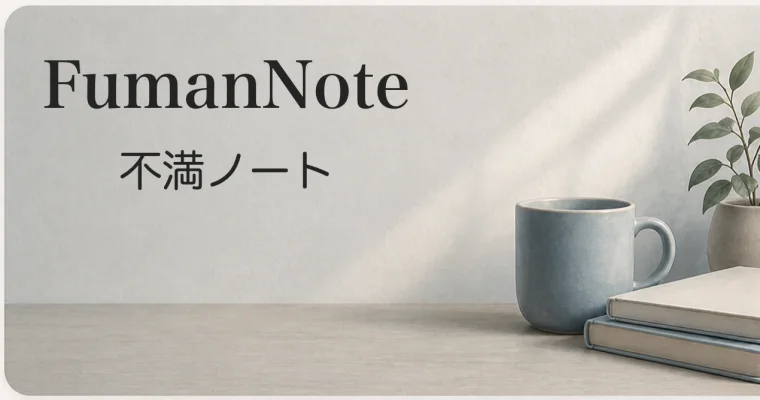
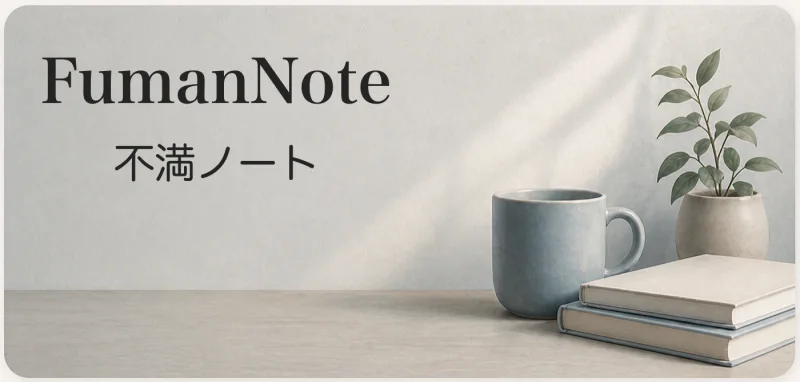
作品カードを横送りにして、収録を7枚に増やす
4枚を並べるだけだったところを、時間で左へ送るカルーセルにした。
両端に送りボタンを置き、指のスワイプとトラックパッドの横なで、
矢印キーでも動く。端まで行ったら反対の端へ回る。

スクロールそのものは overflow-x に任せてある。自前で位置を計算すると
端末ごとの慣性やスワイプの挙動を再現することになるが、素のスクロールなら
それが最初から付いてくる。ボタンと自動送りは scrollTo を呼ぶだけ。

端から端へ戻すときだけ smooth をやめて一気に飛ばしている。
scroll-snap-type が mandatory なので、その距離を smooth で流すと
途中でいちばん近いカードへ引き戻され、元の位置に留まってしまう。

自動送りは、指しているあいだ・中を辿っているあいだ・タブが隠れている
あいだは止める。手で動かしたあとは8秒黙る。読んでいる最中に勝手に
流れると鬱陶しいため。動きを抑える設定の人には最初から動かさない。

カードの絵は、比率が枠と違っても切り取らず、長い辺を枠に合わせて
短い辺に帯を入れる（contain）。帯の色は絵ごとに --art-bg で指定する。
不満ノートの絵は切らずに済むようになったので、元の 1400×667 に戻した。

追加したのは 戦闘画面UIカスタマイザー・Plain Video Saver・
オートダビング構文 の3枚。UADB / UADB Lite / RPGゲーム(仮) は
カードの絵がまだ無いので入れていない。

diff --git a/index.html b/index.html
@@ -44,6 +44,9 @@
   --pad:64px;
   --maxw:1408px;
   --header-h:72px;
+
+  --card-gap:22px;
+  --per-view:4;   /* 横送りで一度に見えるカードの枚数 */
 }
 
 *{box-sizing:border-box;margin:0;padding:0;}
@@ -166,33 +169,67 @@ section{padding:56px 0;}
 .sec-more:hover{color:var(--blue-ink);}
 .sec-more svg{width:14px;height:14px;}
 
-/* ── 作品カード ─────────────────────────── */
+/* ── 作品カード（横送り）───────────────────
+   素の overflow-x スクロールで作る。こうしておくと、指のスワイプも
+   トラックパッドの横なでも、こちらで何もしなくてもそのまま効く。
+   ボタンと自動送りは scrollTo を呼ぶだけ。 */
+.works-wrap{position:relative;}
 .works{
-  display:grid;
-  grid-template-columns:repeat(4,minmax(0,1fr));
-  gap:22px;
+  display:flex;
+  gap:var(--card-gap);
+  overflow-x:auto;
+  scroll-snap-type:x mandatory;
+  scroll-behavior:smooth;
+  /* overflow-x を指定すると縦もはみ出しが切られるので、
+     カードの影のぶんだけ上下に余白を取って相殺する */
+  padding:6px 0 10px;
+  margin:-6px 0 -10px;
+  scrollbar-width:none;
+  -ms-overflow-style:none;
 }
+.works::-webkit-scrollbar{display:none;}
 .work{
+  flex:0 0 calc((100% - var(--card-gap) * (var(--per-view) - 1)) / var(--per-view));
+  scroll-snap-align:start;
   border:1px solid var(--line);
   border-radius:10px;
   overflow:hidden;
   background:var(--bg);
   transition:border-color .15s,box-shadow .15s,transform .15s;
 }
+
+/* 送りボタン。カードの列の両端に重ねる */
+.car-btn{
+  position:absolute;top:calc(50% - 12px);
+  width:38px;height:38px;border-radius:50%;
+  display:flex;align-items:center;justify-content:center;
+  background:var(--bg);color:var(--ink);
+  border:1px solid var(--line);
+  box-shadow:0 3px 14px rgba(17,18,20,.10);
+  cursor:pointer;padding:0;
+  transition:background-color .15s,border-color .15s,box-shadow .15s;
+  z-index:2;
+}
+.car-btn:hover{background:var(--ink);color:#fff;border-color:var(--ink);}
+.car-btn:focus-visible{outline:2px solid var(--blue);outline-offset:2px;}
+.car-btn svg{width:16px;height:16px;}
+.car-btn.prev{left:-19px;}
+.car-btn.next{right:-19px;}
 .work:hover{
   border-color:#cfd2d8;
   box-shadow:0 6px 22px rgba(17,18,20,.07);
   transform:translateY(-2px);
 }
-/* OGP画像をそのまま流用するので、比率は 16:9 ではなく
-   OGP の 1200×630 に合わせる。切り取ると焼き込みの文字が欠ける。
-   カード専用に描いた絵は、この比率に切ってから置くこと。 */
+/* 枠は OGP の 1200×630 に固定する。絵の比率が違っても切り取らず、
+   長い辺を枠に合わせて短い辺に帯を入れる（contain）。焼き込みの
+   文字が端にある絵が多く、切ると欠けるため。
+   帯の色は絵ごとに --art-bg で指定する。既定は薄いグレー。 */
 .work-art{
   aspect-ratio:1200/630;
-  background:var(--bg-soft);
+  background:var(--art-bg,var(--bg-soft));
   border-bottom:1px solid var(--line);
 }
-.work-art img{width:100%;height:100%;object-fit:cover;}
+.work-art img{width:100%;height:100%;object-fit:contain;}
 .work-foot{
   display:flex;align-items:center;justify-content:space-between;
   gap:12px;padding:14px 16px;
@@ -282,10 +319,14 @@ footer{border-top:1px solid var(--line);padding:30px 0;}
 
 /* ── レスポンシブ ───────────────────────── */
 @media (max-width:1080px){
-  .works{grid-template-columns:repeat(2,minmax(0,1fr));}
+  :root{--per-view:2;}
 }
 @media (max-width:860px){
   :root{--pad:22px;}
+  /* 幅が狭いところではボタンが画面の外へ出るので、内側へ寄せる */
+  .car-btn{width:34px;height:34px;}
+  .car-btn.prev{left:-6px;}
+  .car-btn.next{right:-6px;}
   .header-inner{padding-left:var(--pad);}
   .nav{
     position:fixed;top:var(--header-h);left:0;right:0;
@@ -324,7 +365,17 @@ footer{border-top:1px solid var(--line);padding:30px 0;}
   .sec-head{margin-bottom:20px;}
 }
 @media (max-width:560px){
-  .works{grid-template-columns:1fr;}
+  :root{--per-view:1;}
+  /* 「FEATURED WORKS」が2行に折れて縦に伸びるので、
+     入らなければ「すべての作品を見る」を下の行へ落とす */
+  .sec-head{flex-wrap:wrap;gap:4px 16px;}
+  .sec-title{white-space:nowrap;}
+}
+
+/* 動きを抑える設定の人には自動送りを止める。JS 側でも見ている */
+@media (prefers-reduced-motion:reduce){
+  .works{scroll-behavior:auto;}
+  .work{transition:none;}
 }
 </style>
 
@@ -392,38 +443,72 @@ footer{border-top:1px solid var(--line);padding:30px 0;}
         </a>
       </div>
 
-      <div class="works">
-        <a class="work" href="kuro.html">
-          <div class="work-art"><img src="assets/cards/kuro.webp" alt="" loading="lazy" width="720" height="378"></div>
-          <div class="work-foot">
-            <span class="work-name">Kuro</span>
-            <span class="dot released" title="リリース済み" aria-label="リリース済み"></span>
-          </div>
-        </a>
+      <div class="works-wrap">
+        <button class="car-btn prev" id="worksPrev" type="button" aria-label="前の作品へ" aria-controls="worksStrip">
+          <svg viewBox="0 0 24 24" fill="none" stroke="currentColor" stroke-width="2.4"><polyline points="15 5 8 12 15 19"/></svg>
+        </button>
 
-        <a class="work" href="shelfnavigator.html">
-          <div class="work-art"><img src="assets/cards/shelfnavigator.webp" alt="" loading="lazy" width="720" height="378"></div>
-          <div class="work-foot">
-            <span class="work-name">ShelfNavigator</span>
-            <span class="dot released" title="リリース済み" aria-label="リリース済み"></span>
-          </div>
-        </a>
+        <div class="works" id="worksStrip" tabindex="0" role="group" aria-label="作品一覧（横にスクロールします）">
+          <a class="work" href="kuro.html">
+            <div class="work-art"><img src="assets/cards/kuro.webp" alt="" loading="lazy" width="720" height="378"></div>
+            <div class="work-foot">
+              <span class="work-name">Kuro</span>
+              <span class="dot released" title="リリース済み" aria-label="リリース済み"></span>
+            </div>
+          </a>
 
-        <a class="work" href="recoup.html">
-          <div class="work-art"><img src="assets/cards/recoup.webp" alt="" loading="lazy" width="720" height="378"></div>
-          <div class="work-foot">
-            <span class="work-name">Recoup</span>
-            <span class="dot released" title="リリース済み" aria-label="リリース済み"></span>
-          </div>
-        </a>
+          <a class="work" href="shelfnavigator.html">
+            <div class="work-art"><img src="assets/cards/shelfnavigator.webp" alt="" loading="lazy" width="720" height="378"></div>
+            <div class="work-foot">
+              <span class="work-name">ShelfNavigator</span>
+              <span class="dot released" title="リリース済み" aria-label="リリース済み"></span>
+            </div>
+          </a>
 
-        <a class="work" href="fumannote.html">
-          <div class="work-art"><img src="assets/cards/fumannote.webp" alt="" loading="lazy" width="760" height="400"></div>
-          <div class="work-foot">
-            <span class="work-name" data-ja="不満ノート" data-en="FumanNote">不満ノート</span>
-            <span class="dot review" title="App Store 審査中" aria-label="App Store 審査中"></span>
-          </div>
-        </a>
+          <a class="work" href="recoup.html">
+            <div class="work-art"><img src="assets/cards/recoup.webp" alt="" loading="lazy" width="720" height="378"></div>
+            <div class="work-foot">
+              <span class="work-name">Recoup</span>
+              <span class="dot released" title="リリース済み" aria-label="リリース済み"></span>
+            </div>
+          </a>
+
+          <a class="work" href="fumannote.html">
+            <div class="work-art" style="--art-bg:#f6f3f0;"><img src="assets/cards/fumannote.webp" alt="" loading="lazy" width="800" height="382"></div>
+            <div class="work-foot">
+              <span class="work-name" data-ja="不満ノート" data-en="FumanNote">不満ノート</span>
+              <span class="dot review" title="App Store 審査中" aria-label="App Store 審査中"></span>
+            </div>
+          </a>
+
+          <a class="work" href="https://note.com/legit_fowl8567/n/n3992c3e5129e" target="_blank" rel="noopener">
+            <div class="work-art"><img src="assets/cards/battle-ui.webp" alt="" loading="lazy" width="760" height="398"></div>
+            <div class="work-foot">
+              <span class="work-name" data-ja="戦闘画面UIカスタマイザー" data-en="BattleUICustomizer">戦闘画面UIカスタマイザー</span>
+              <span class="dot released" title="リリース済み" aria-label="リリース済み"></span>
+            </div>
+          </a>
+
+          <a class="work" href="pvs.html">
+            <div class="work-art"><img src="assets/cards/pvs.webp" alt="" loading="lazy" width="720" height="378"></div>
+            <div class="work-foot">
+              <span class="work-name">Plain Video Saver</span>
+              <span class="dot released" title="リリース済み" aria-label="リリース済み"></span>
+            </div>
+          </a>
+
+          <a class="work" href="autodub/">
+            <div class="work-art"><img src="assets/cards/autodub.webp" alt="" loading="lazy" width="720" height="378"></div>
+            <div class="work-foot">
+              <span class="work-name" data-ja="オートダビング構文" data-en="AutoDub">オートダビング構文</span>
+              <span class="dot released" title="公開中" aria-label="公開中"></span>
+            </div>
+          </a>
+        </div>
+
+        <button class="car-btn next" id="worksNext" type="button" aria-label="次の作品へ" aria-controls="worksStrip">
+          <svg viewBox="0 0 24 24" fill="none" stroke="currentColor" stroke-width="2.4"><polyline points="9 5 16 12 9 19"/></svg>
+        </button>
       </div>
     </div>
   </section>
@@ -550,6 +635,87 @@ footer{border-top:1px solid var(--line);padding:30px 0;}
   try { saved = localStorage.getItem(KEY); } catch (e) {}
   if (!saved) saved = (navigator.language || '').toLowerCase().indexOf('ja') === 0 ? 'ja' : 'en';
   if (saved === 'en') apply('en');
+
+  // ── 作品の横送り ────────────────────────
+  // スクロールそのものはブラウザに任せてあるので、ここでやるのは
+  // 「1枚ぶん動かす」ことと、放っておいたときに勝手に進めることだけ。
+  (function () {
+    var strip = document.getElementById('worksStrip');
+    if (!strip) return;
+    var prev = document.getElementById('worksPrev');
+    var next = document.getElementById('worksNext');
+    var INTERVAL = 4500;
+    var RESUME = 8000;      // 手で動かしたあと、自動送りに戻るまで
+    var timer = null, idle = null;
+
+    var calm = window.matchMedia('(prefers-reduced-motion: reduce)');
+
+    function stepWidth() {
+      var card = strip.querySelector('.work');
+      if (!card) return strip.clientWidth;
+      var gap = parseFloat(getComputedStyle(strip).columnGap) || 0;
+      return card.getBoundingClientRect().width + gap;
+    }
+
+    // 端から端へ戻すときだけは一気に飛ばす。
+    // scroll-snap-type が mandatory なので、その距離を smooth で流すと
+    // 途中でいちばん近いカードへ引き戻され、元の位置に留まってしまう。
+    function jump(x) {
+      var keep = strip.style.scrollBehavior;
+      strip.style.scrollBehavior = 'auto';
+      strip.scrollLeft = x;
+      strip.style.scrollBehavior = keep;
+    }
+
+    function go(dir) {
+      var max = strip.scrollWidth - strip.clientWidth;
+      if (dir > 0 && strip.scrollLeft >= max - 2) return jump(0);
+      if (dir < 0 && strip.scrollLeft <= 2) return jump(max);
+      strip.scrollTo({
+        left: strip.scrollLeft + dir * stepWidth(),
+        behavior: calm.matches ? 'auto' : 'smooth'
+      });
+    }
+
+    function start() {
+      if (timer || calm.matches) return;
+      timer = setInterval(function () { go(1); }, INTERVAL);
+    }
+    function stop() {
+      if (timer) { clearInterval(timer); timer = null; }
+    }
+    // 手で触ったあとは、しばらく自動送りを黙らせる。
+    // 読んでいる最中に勝手に流れると鬱陶しいため。
+    function hold() {
+      stop();
+      clearTimeout(idle);
+      idle = setTimeout(start, RESUME);
+    }
+
+    prev.addEventListener('click', function () { go(-1); hold(); });
+    next.addEventListener('click', function () { go(1); hold(); });
+
+    strip.addEventListener('pointerdown', hold);
+    strip.addEventListener('wheel', hold, { passive: true });
+    strip.addEventListener('keydown', function (e) {
+      if (e.key === 'ArrowRight') { e.preventDefault(); go(1); hold(); }
+      if (e.key === 'ArrowLeft')  { e.preventDefault(); go(-1); hold(); }
+    });
+
+    // 指しているあいだ・中を辿っているあいだは止める
+    strip.addEventListener('mouseenter', stop);
+    strip.addEventListener('mouseleave', start);
+    strip.addEventListener('focusin', stop);
+    strip.addEventListener('focusout', start);
+
+    // 見えていないタブで動かし続けても意味がない
+    document.addEventListener('visibilitychange', function () {
+      if (document.hidden) stop(); else start();
+    });
+    calm.addEventListener('change', function () { calm.matches ? stop() : start(); });
+
+    start();
+  })();
 
   // ── モバイルのメニュー ──────────────────
   var toggle = document.getElementById('navToggle');
